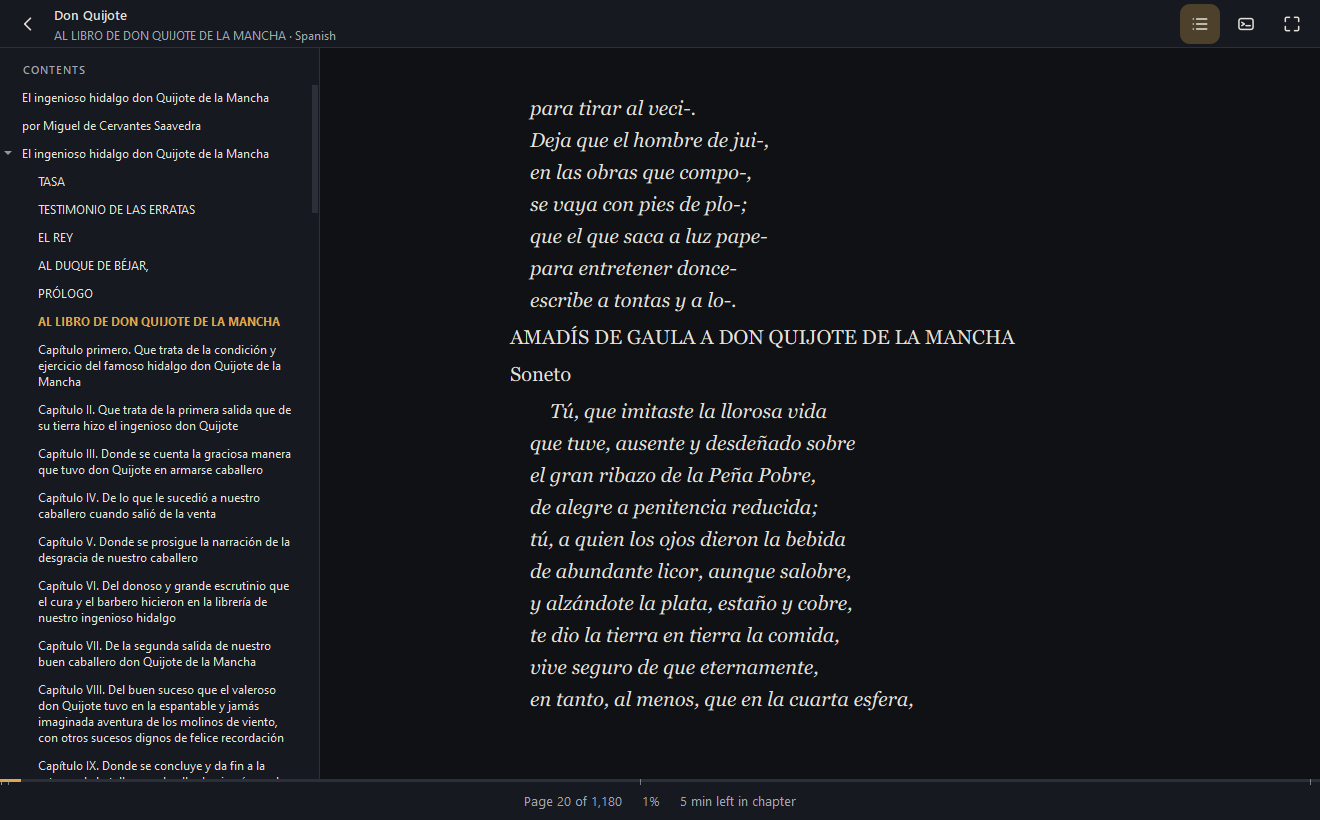
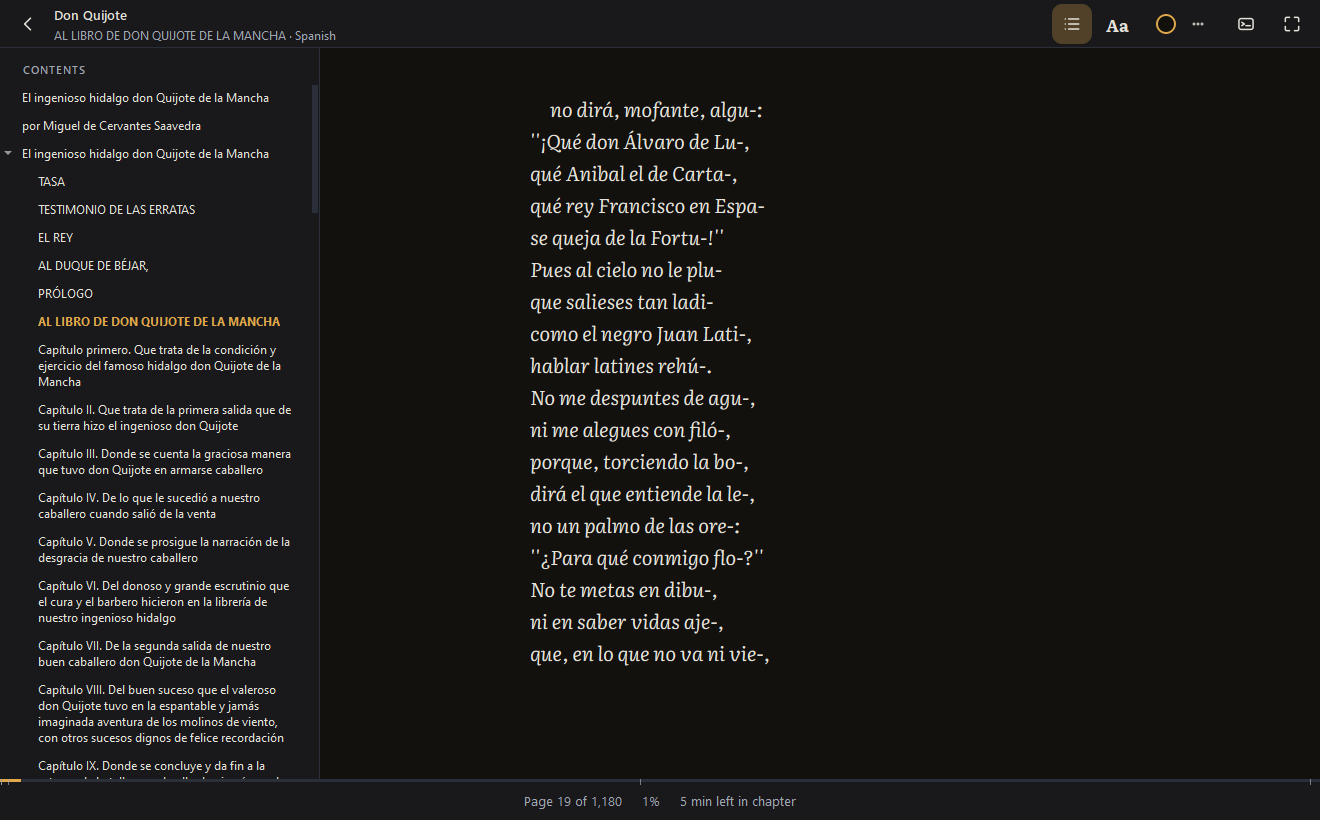
README: library, text and layout, themes, with new pictures; screenshot mode clears the import report

Changed region(s): [[0.3727, 0.122, 0.7765, 0.8841], [0.7765, 0.0, 0.9318, 0.061]]

diff --git a/src/app/main.cpp b/src/app/main.cpp
@@ -90,6 +90,7 @@ static int screenshot(QCommandLineParser& cli, const QString& out)
             fprintf(stderr, "Adding books didn't finish in time.\n");
             return 3;
         }
+        w.library()->setMessage(QString());   // pictures show the library, not the import report
     }
     if (cli.isSet(QStringLiteral("list-view"))) w.library()->setListMode(true);
     const QStringList args = cli.positionalArguments();

diff --git a/README.md b/README.md
@@ -6,45 +6,76 @@ version.
 
 ![FreeReader showing Don Quijote with the contents panel open](.github/screenshot.png)
 
-**Status:** early development (phase 1 of 7). Reading works: books open, pages lay out and turn, and your place
-is remembered. The library, themes, translation, highlights and the word log come next.
+**Status:** early development (phase 2 of 7). The library, reading, themes and text settings work. Translation,
+highlights and the word log come next.
 
 ## Download
 
-There is no release yet. Each release will have:
+Get the latest version from the [Releases](https://github.com/cincottash/FreeReader/releases) page.
 
 | System | File | Status |
 | --- | --- | --- |
 | Windows 10 and 11 | `FreeReader.exe` (one file, nothing to install) | Tested |
 | Linux | `FreeReader-x86_64.AppImage` | Experimental |
 
+## Library
+
+<img src=".github/readme/library.png" align="right" width="420" alt="The library with two books">
+
+- **Add Books** takes files or a whole folder, or drop them on the window. The files stay where they are.
+- Filter by **Reading**, **Finished**, **Not Started**, by **language**, or by your **collections**: make one with
+  **+ New Collection**, then drag books onto it.
+- Search by title or author, sort, and switch between covers and a list.
+- **Continue Reading** at the bottom reopens the last book where you left off.
+- A book whose file was moved shows **File Not Found**; right-click it to **Locate File…**.
+
+<br clear="right">
+
 ## Reading
 
-- **Open a book:** click **Open Book…** or drop an EPUB file on the window. Recent books are listed on the start
-  screen; FreeReader reopens each one where you left off.
-- **Turn pages:** arrow keys, Page Up and Page Down, Space, the mouse wheel, or the arrows that appear at the
-  edges of the page.
+- **Turn pages:** arrow keys, Page Up and Page Down, Space, the mouse wheel, or the arrows at the edges of the page.
 - **Contents:** the list button in the header (Ctrl+T). The current chapter is marked.
 - **Go to a page or point:** Ctrl+G, then a page number or a percentage such as `45%`. Click the progress bar
-  to jump there.
-- **Back:** after any jump, **Back to Page …** at the bottom (or Alt+Left) returns to where you were.
+  to jump there. **Back to Page …** (or Alt+Left) returns to where you were.
 - **Footnotes** open in a small pop-up next to the reference. **Pictures** open full size when clicked.
 - **Commands:** Ctrl+K lists everything FreeReader can do. There is no menu bar.
 
-Page numbers stay the same when you change the text size or the window: one page is 1,800 characters of the
-book, or the publisher's own page numbers when the book has them.
+Page numbers stay the same whatever the text size or the window: one page is 1,800 characters of the book, or
+the publisher's own page numbers when the book has them.
+
+## Text and layout
+
+![The text and layout panel](.github/readme/text-layout.png)
+
+The **Aa** button sets the font (the book's own, the bundled Literata or Atkinson Hyperlegible, or any font on
+your computer), text size, line spacing, margins, page width, one or two columns, justification and
+hyphenation. **Apply To** decides which books a change is for: all books, all books in that language, or only
+this one.
+
+## Themes
+
+![The theme list](.github/readme/themes.png)
+
+43 themes restyle the whole app: FreeReader's reading themes (Midnight, Paper, Sepia, Slate and more) and
+popular dark and light editor schemes. Point at a theme to preview it; your last few themes sit as dots in the
+header. **Match Operating System** follows Windows' light or dark mode.
 
 FreeReader only opens books without DRM. It never removes or works around DRM.
 
 <details>
 <summary>Keyboard shortcuts</summary>
 
+Every shortcut can be changed in **Settings** (Ctrl+,).
+
 | Command | Shortcut |
 | --- | --- |
 | Show Commands | Ctrl+K, Ctrl+Shift+P, F1 |
 | Open Book… | Ctrl+O |
-| Go to Start Screen | Ctrl+L |
+| Add Books… | Ctrl+Shift+O |
+| Go to Library | Ctrl+L |
 | Show or Hide Contents | Ctrl+T |
+| Text and Layout… | Ctrl+Shift+A |
+| Choose Theme… | Ctrl+Shift+T |
 | Go to Page or Percent… | Ctrl+G |
 | Back | Alt+Left, Backspace |
 | Next Chapter / Previous Chapter | Ctrl+Page Down / Ctrl+Page Up |
@@ -53,9 +84,8 @@ FreeReader only opens books without DRM. It never removes or works around DRM.
 | Larger Text / Smaller Text / Default Text Size | Ctrl+= / Ctrl+- / Ctrl+0 |
 | Full Screen | F11 |
 | Copy | Ctrl+C |
+| Settings… | Ctrl+, |
 | Quit | Ctrl+Q |
-
-One Column, Two Columns and Automatic Columns are in the command list (Ctrl+K).
 
 </details>
 
@@ -72,12 +102,13 @@ desktop yet. It runs through X11; on a Wayland desktop it uses XWayland, which m
 
 ```
 FreeReader [book.epub] [--data-folder FOLDER]
-FreeReader book.epub --screenshot out.png [--page N | --percent P] [--turn N] [--size WxH]
-           [--columns one|two|auto] [--text-size PERCENT] [--contents] [--palette]
+FreeReader [book.epub] --screenshot out.png [--page N | --percent P] [--turn N] [--size WxH]
+           [--columns one|two|auto] [--text-size PERCENT] [--font FAMILY] [--theme KEY]
+           [--contents] [--palette] [--appearance] [--theme-list] [--add-books FOLDER] [--list-view]
 ```
 
 `--data-folder` uses that folder for this run only. `--screenshot` draws the window off-screen to a picture and
-exits; it never shows a window or a dialog.
+exits; it never shows a window or a dialog, and it uses a throwaway library.
 
 </details>
 
@@ -104,11 +135,25 @@ cmake --build build
   and 3 first.
 - `src/core/html`, `src/core/css`: a forgiving HTML parser and the CSS subset books use, with the cascade.
 - `src/core/layout`: FreeReader's own layout engine. Each chapter becomes a flow of paragraphs, images and
-  tables with stable character positions, laid out into pages with Qt's text layout on background threads and
-  drawn with QPainter. No browser engine is used.
+  tables with stable character positions, laid out into pages on background threads (with hyphenation by
+  Liang's algorithm) and drawn with QPainter. No browser engine is used.
 - `src/core/position`: positions as EPUB CFI, which keep working when the text size or window changes.
-- `src/core/services`: the book engine (opening, layout cache) and the library database (SQLite).
+- `src/core/services`: the book engine (opening, layout cache), the library database (SQLite) and adding books.
 - `src/app`: the windows.
+
+</details>
+
+<details>
+<summary>Credits</summary>
+
+- Fonts: [Literata](https://github.com/googlefonts/literata) (The Literata Project Authors) and
+  [Atkinson Hyperlegible](https://www.brailleinstitute.org/freefont/) (Braille Institute of America), both under
+  the SIL Open Font License (`resources/fonts`).
+- Hyphenation patterns from the [hyph-utf8](https://github.com/hyphenation/tex-hyphen) project for Spanish,
+  English, French, German, Italian and Portuguese, each under its own free license (`resources/hyphenation`).
+- The dark and light themes are adjusted from popular editor color schemes (Nord, Dracula, Solarized, Gruvbox,
+  Catppuccin, Rosé Pine, Tokyo Night, Everforest, Kanagawa, Ayu, One, Palenight, Night Owl, Cobalt2,
+  Synthwave '84, Tomorrow, Monokai, Zenburn) and keep their authors' names.
 
 </details>
 
